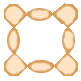
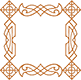
index lehe slaider

diff --git a/wp-content/themes/viikingid/style.css b/wp-content/themes/viikingid/style.css
@@ -2170,7 +2170,7 @@ a {
     max-width: 260px;
 }
 .frame_wrap:before {
-    background-image: none;
+    background-image: none !important;
 }
 
 .thumb .frame_wrap .img_wrap {
@@ -2181,30 +2181,30 @@ a {
     margin: 37px 0 0 0;
 }
 .item .img_wrap {
-    border: 6px double #edb742;
+    border: 15px double #edb742;
     -webkit-border-image-source: url(./img/border-image-2.png);
     -webkit-border-image-slice: 28;
-    -webkit-border-image-width: 0.8em;
+    -webkit-border-image-width: 15px;
     -webkit-border-image-outset: 0;
     -webkit-border-image-repeat: round;
     -moz-border-image-source: url(./img/border-image-2.png);
     -moz-border-image-slice: 28;
-    -moz-border-image-width: 0.8em;
+    -moz-border-image-width: 15px;
     -moz-border-image-outset: 0;
     -moz-border-image-repeat: round;
     -ms-border-image-source: url(./img/border-image-2.png);
     -ms-border-image-slice: 28;
-    -ms-border-image-width: 0.8em;
+    -ms-border-image-width: 15px;
     -ms-border-image-outset: 0;
     -ms-border-image-repeat: round;
     -o-border-image-source: url(./img/border-image-2.png);
     -o-border-image-slice: 28;
-    -o-border-image-width: 0.8em;
+    -o-border-image-width: 15px;
     -o-border-image-outset: 0;
     -o-border-image-repeat: round;
     border-image-source: url(./img/border-image-2.png);
     border-image-slice: 28;
-    border-image-width: 0.8em;
+    border-image-width: 15px;
     border-image-outset: 0;
     border-image-repeat: round;
 }
@@ -2249,6 +2249,30 @@ a {
     padding: 30px 23px;
     margin: 10px;
     text-align: center;
+}
+#owl_back
+{
+    background-color: sandybrown;
+    background-image: url("./img/paper.jpg");
+    background-size: cover;
+    background-position: top center;
+}
+#owl3
+{
+
+    margin-top: -10px;
+    border-top: 35px double #edb742;
+    -moz-border-image:url("./img/bottom_frame.png") 95 30 round; /* Firefox */
+    -webkit-border-image:url("./img/bottom_frame.png") 95 30 round; /* Safari */
+    -o-border-image:url("./img/bottom_frame.png") 95 30 round; /* Opera */
+    border-image:url("./img/bottom_frame.png") 95 30 round;
+    border-bottom:0;
+    border-left:0;
+    border-right:0;
+}
+#owl3 .owl-wrapper-outer
+{margin-top: -10px;
+
 }
 #owl3 .item
 {

diff --git a/wp-content/themes/viikingid/index_template.php b/wp-content/themes/viikingid/index_template.php
@@ -10,43 +10,27 @@
             <area shape="rect" coords="1920,276,2070,351" href="<?php echo get_template_directory_uri(); ?>/img/test.jpg" alt="kontakt"  />
         </map>
     </div>
-	<div>
+	<div id="owl_back">
 	        <div id="owl3" class="owl-carousel owl-theme">
+                <?php if (have_posts()): while (have_posts()) : the_post(); ?>
 
-								 
-											 <?php query_posts('cat=10&order=ASC'); ?>
-											<?php if (have_posts()): while (have_posts()) : the_post(); ?>
-										  <div class="item">
-													<a href="<?php echo get_permalink()?>">
-																					<div class="ad_thumb">
-																						
-																						                          
-																							       <?php if(has_post_thumbnail()): ?>
-																									<div class="img_wrap">   	
-																								   <?php the_post_thumbnail();?>
-																									</div>
-																									<?php endif; ?>
-																						 <div class="link_holder"><?php the_title();?></div>
-																					</div>
-													</a>
-											</div>
+                    <?php the_content(); ?>
 
 
+                <?php endwhile; ?>
 
-								<?php endwhile; ?>
+                <?php else: ?>
 
-								<?php else: ?>
+                    <!-- article -->
+                    <article>
 
-								<!-- article -->
-								<article>
+                        <h2><?php _e( 'Sorry, nothing to display.', 'html5blank' ); ?></h2>
 
-									<h2><?php _e( 'Sorry, nothing to display.', 'html5blank' ); ?></h2>
+                    </article>
+                    <!-- /article -->
 
-								</article>
-								<!-- /article -->
+                <?php endif; ?>
 
-							<?php endif; ?>
-							<?php wp_reset_query(); ?>
             </div>
     </div>
 <?php get_footer("footer1"); ?>
